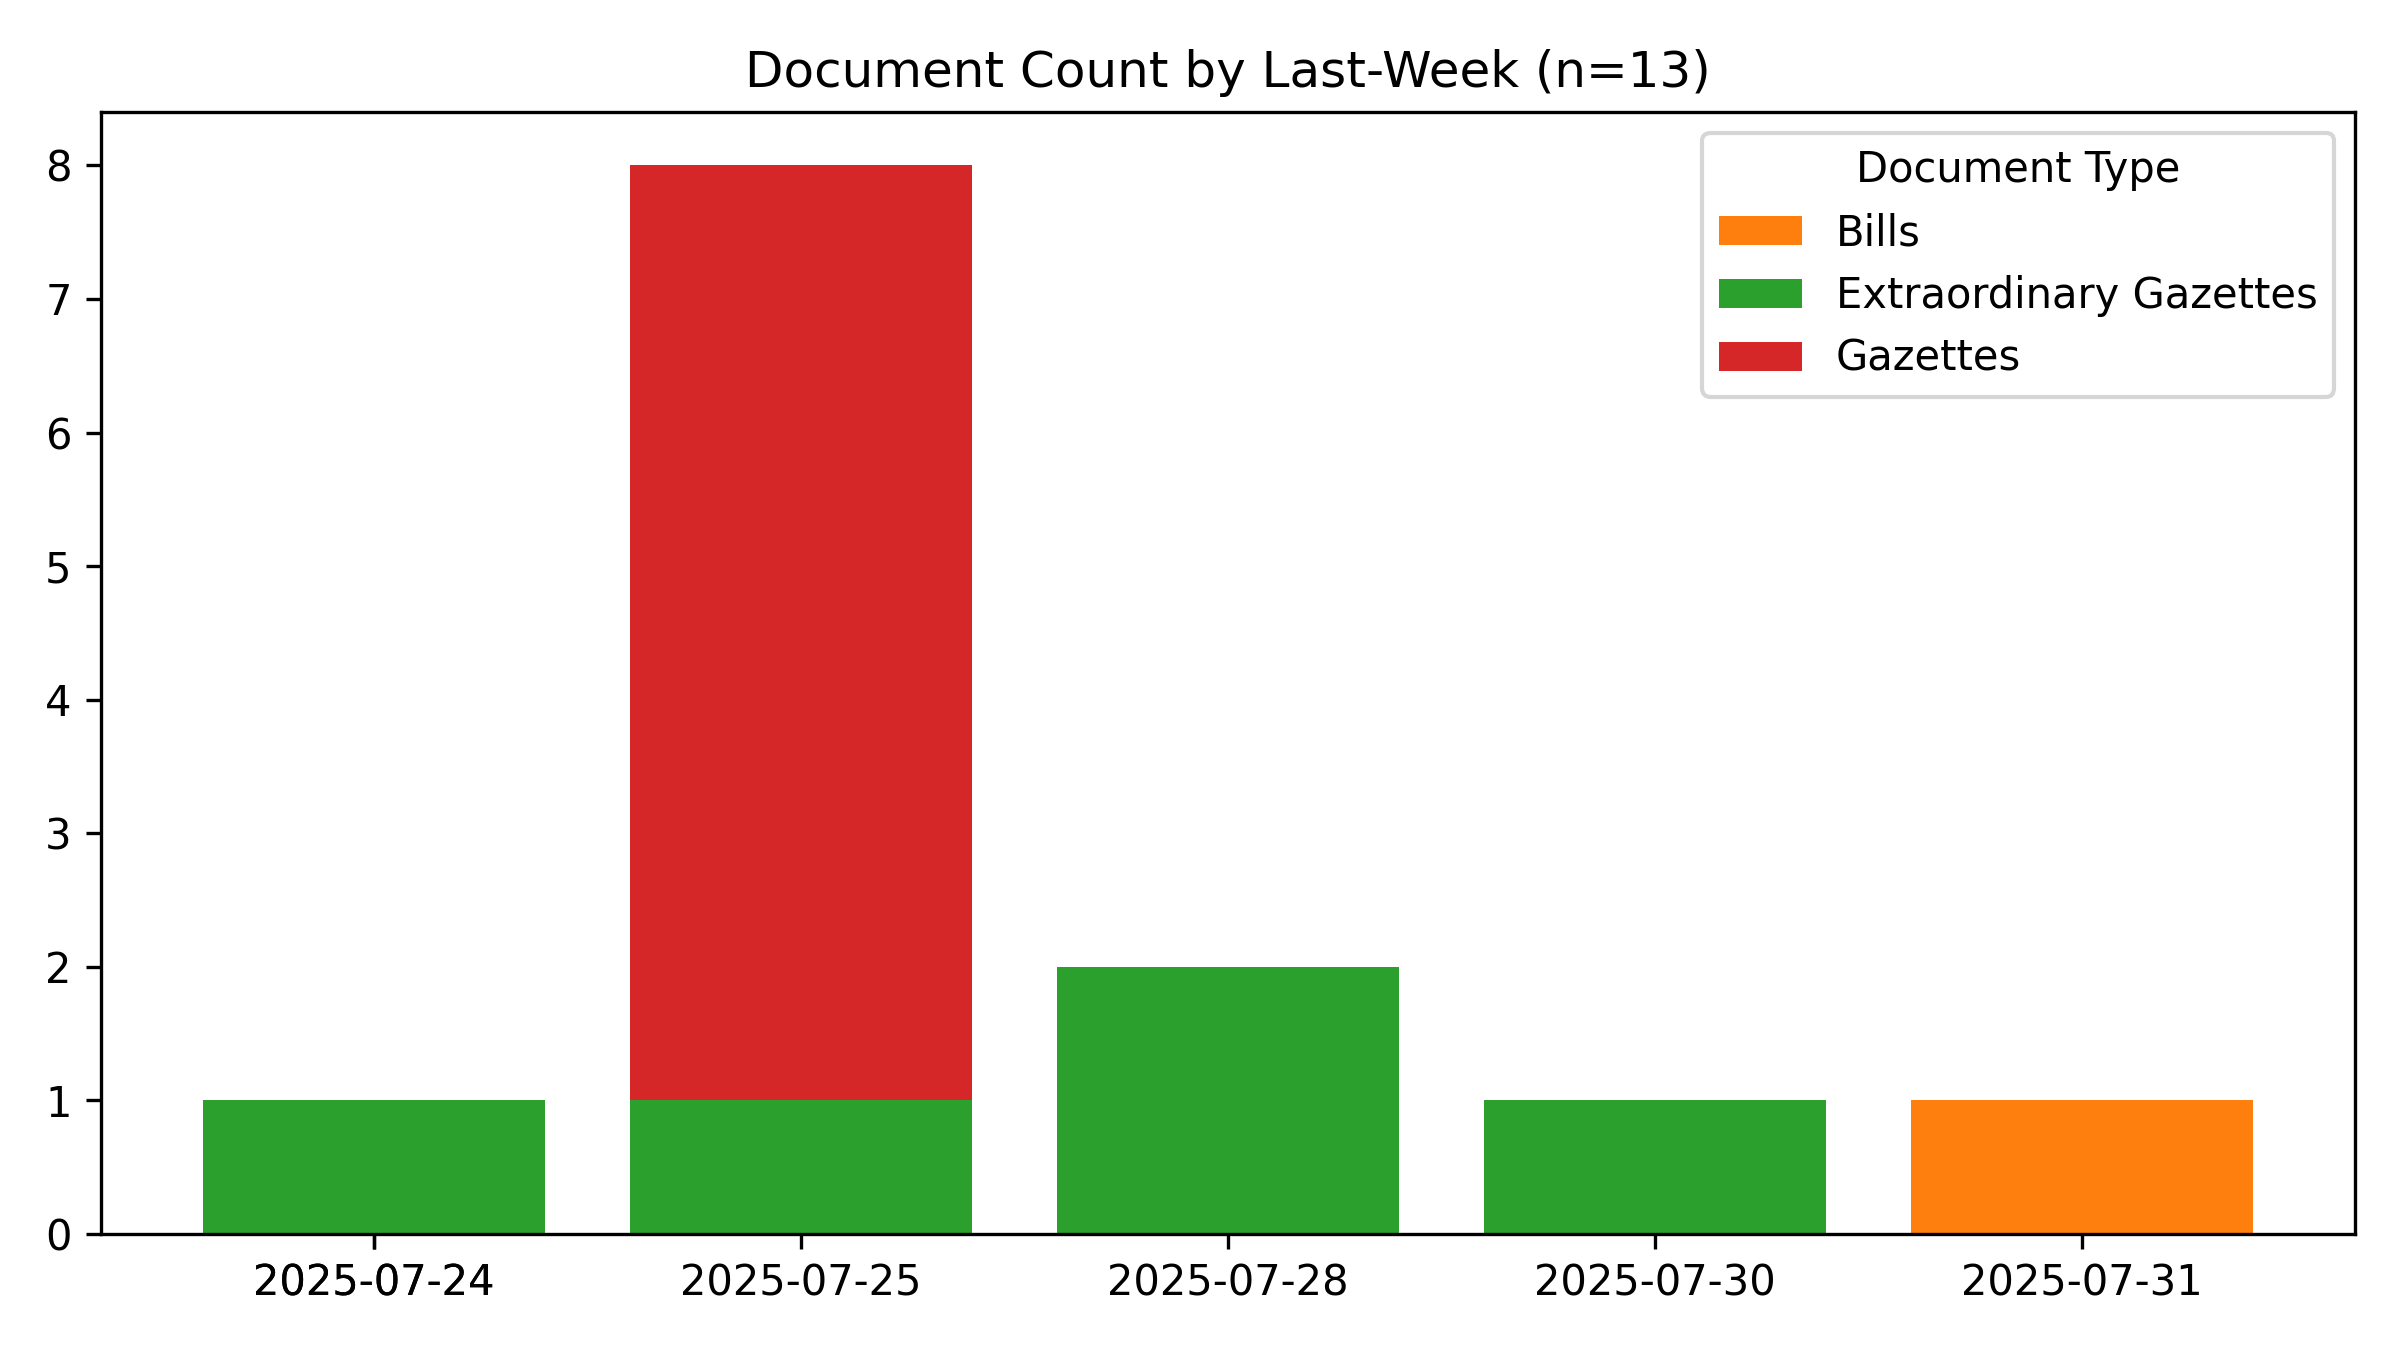
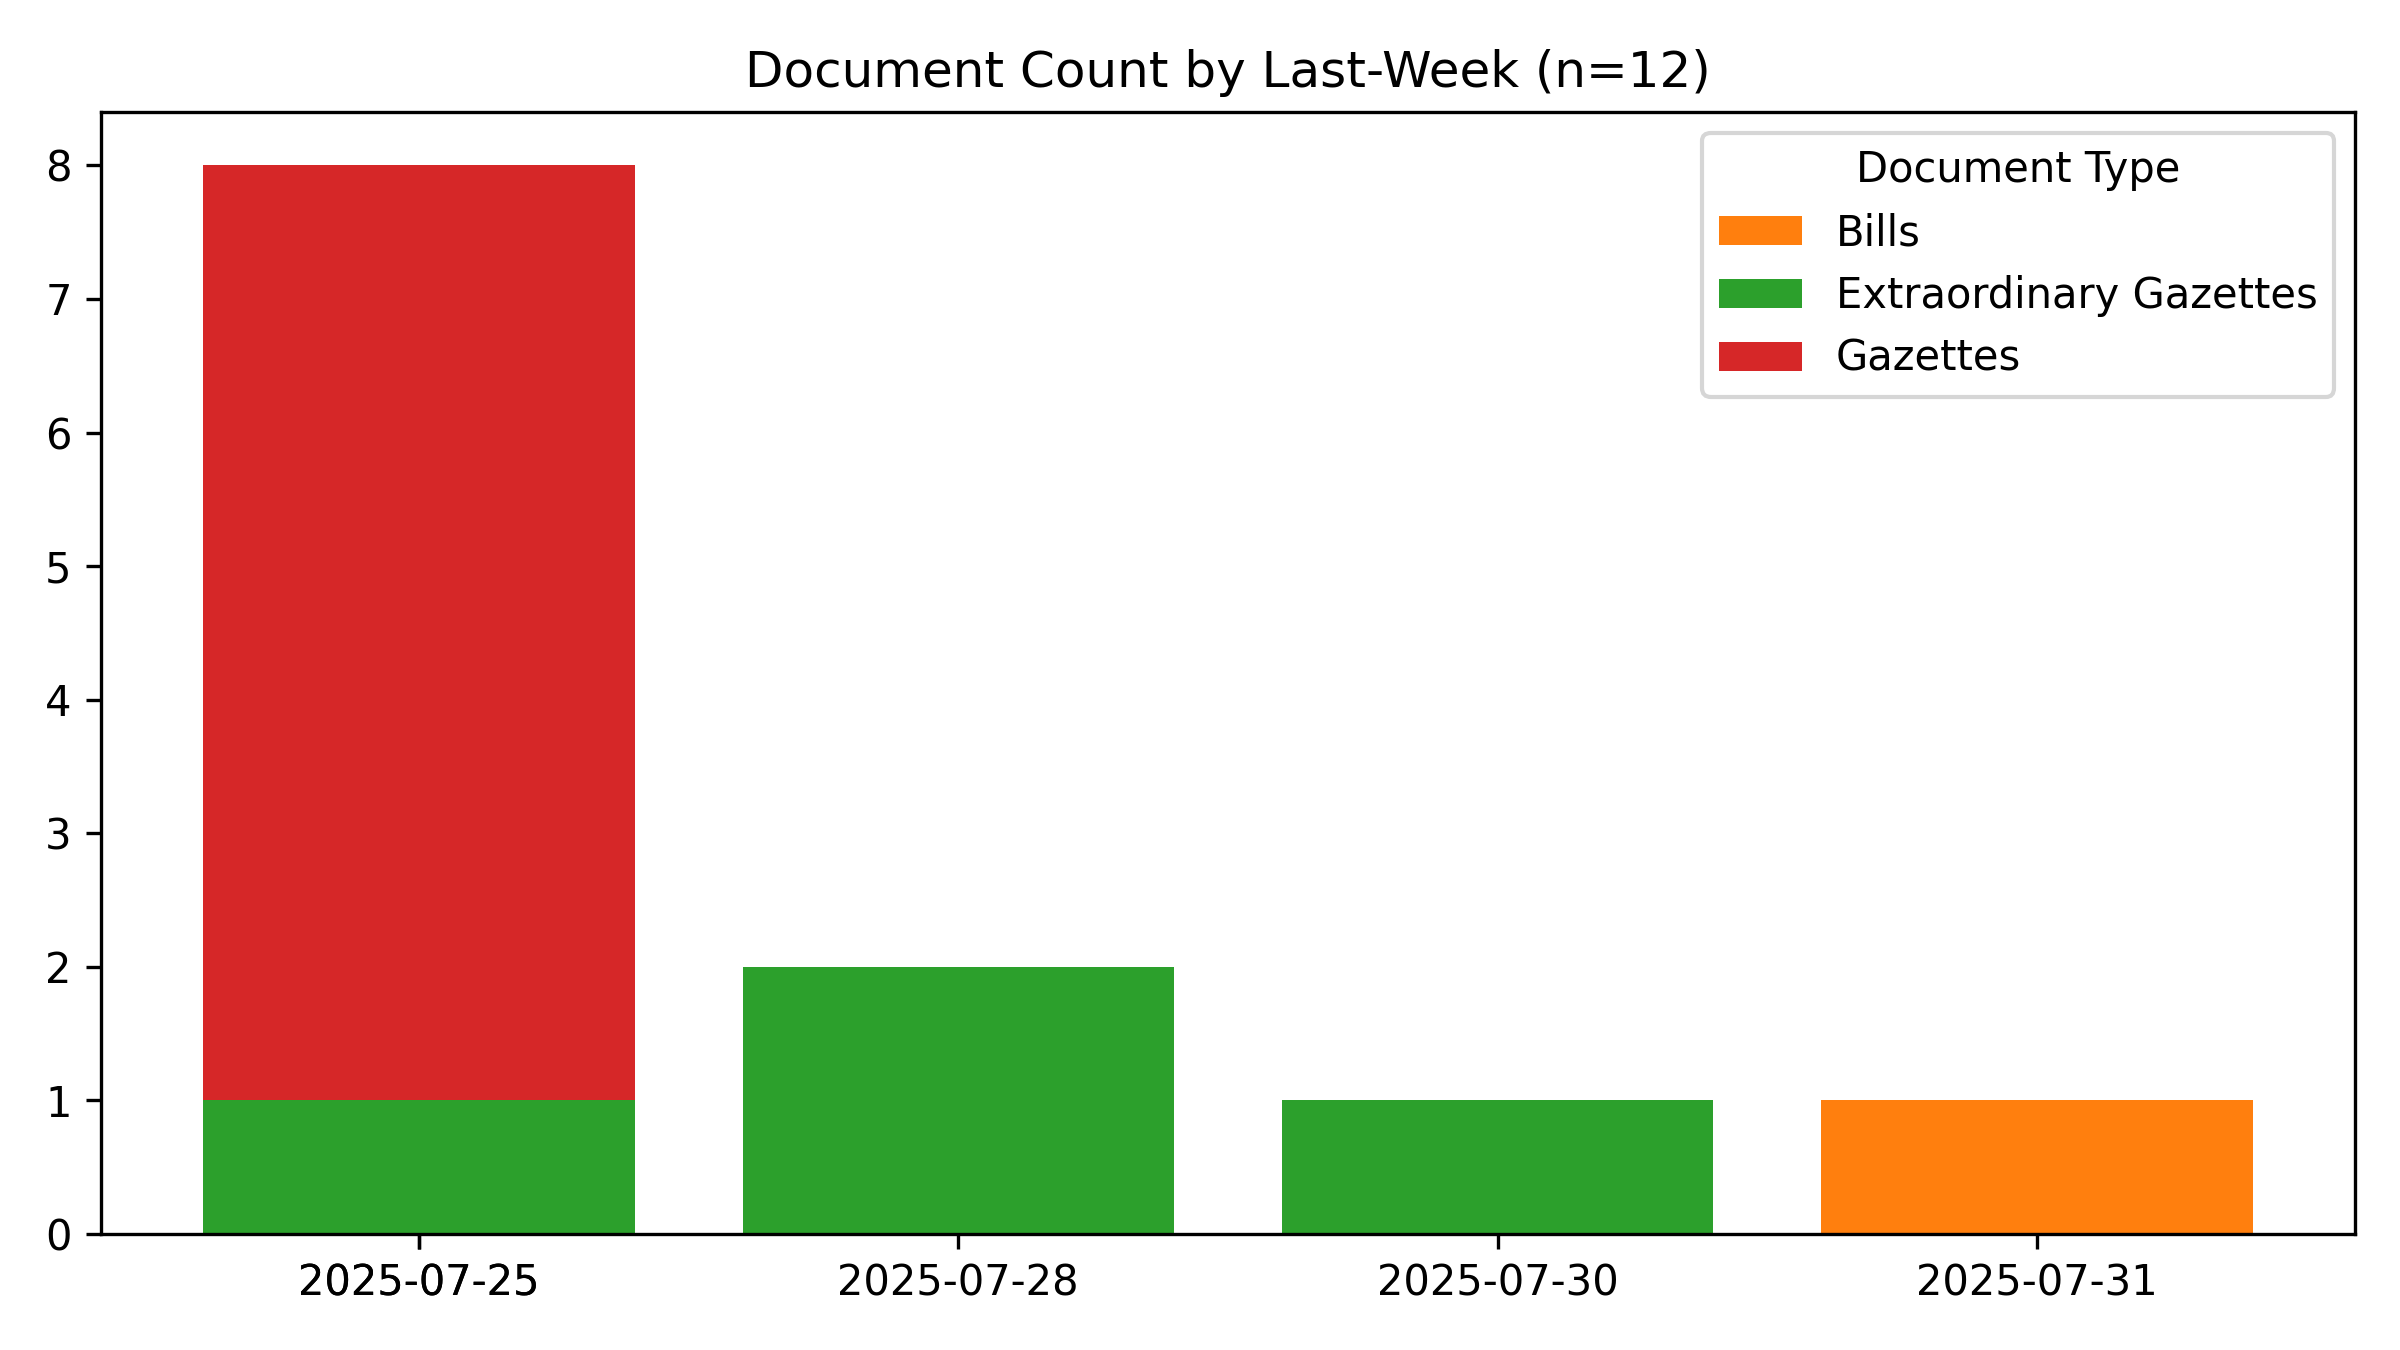
🤖 [data_scraper.yml] 2025-08-01-0016

Changed region(s): [[0.0625, 0.1244, 0.9062, 0.9644], [0.0938, 0.9333, 0.2188, 0.9644]]

diff --git a/README.md b/README.md
@@ -1,6 +1,6 @@
 # #SriLanka 🇱🇰 - Legal Documents #Dataset
 
-*Last Updated **2025-08-01 05:29:18**.*
+*Last Updated **2025-08-01 05:46:33**.*
 
 **44,167** documents (41.0 MB), from 1981-01-22 to 2025-07-31.
 
@@ -16,7 +16,7 @@ A collection of 📢 Gazettes, 🚨 Extraordinary Gazettes, 🏛 Acts, ✍
 
 #Legal #OpenData #GovTech
 
-📄 Currently, 100,322 PDFs (37.6 GB) for **35,489** documents (80.4%) have been downloaded. Final data size is estimated to be ~47 GB.
+📄 Currently, 100,438 PDFs (37.7 GB) for **35,531** documents (80.4%) have been downloaded. Final data size is estimated to be ~47 GB.
 
 ## 🆕 The Legal Documents App
 
@@ -45,7 +45,7 @@ For best results, use a desktop browser.
 
 ## Recent Documents (Published during the last 7 days)
 
-**13** Documents
+**12** Documents
 
 - ✍ [2025-07-31] [PresidentsÃ¢â¬â¢ Entitlements (Repeal) - GS](https://github.com/nuuuwan/lk_legal_docs_data/tree/main/data/bills/2025/624-2025)
 - 🚨 [2025-07-30] [Election Commission - Notice under Section 66 A(1) Filling of a Vacancy in the office of members of the Walikaman West Pradeshiya Sabha](https://github.com/nuuuwan/lk_legal_docs_data/tree/main/data/extra-gazettes/2025/2447-28)
@@ -59,4 +59,3 @@ For best results, use a desktop browser.
 - 📢 [2025-07-25] [(IIB) - Advertising](https://github.com/nuuuwan/lk_legal_docs_data/tree/main/data/gazettes/2025/2025-07-25-iib-advertising)
 - 📢 [2025-07-25] [(IIA) - Advertising](https://github.com/nuuuwan/lk_legal_docs_data/tree/main/data/gazettes/2025/2025-07-25-iia-advertising)
 - 📢 [2025-07-25] [(I) - General](https://github.com/nuuuwan/lk_legal_docs_data/tree/main/data/gazettes/2025/2025-07-25-i-general)
-- 🚨 [2025-07-24] [District Secretariat - Vavuniya, Periyakadu St. Antony's Church Festival - 2025](https://github.com/nuuuwan/lk_legal_docs_data/tree/main/data/extra-gazettes/2025/2446-51)
